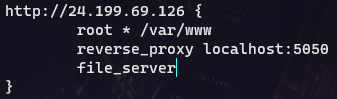
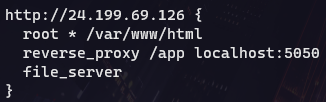
Submit

diff --git a/src/index.js b/src/index.js
@@ -1,19 +1,15 @@
 // Require the framework and instantiate it
 const fastify = require('fastify')({ logger: true })
-// Require fs for readStream
-const { createReadStream } = require('fs')
 
 // Declare a route
-fastify.get('/', async (request, reply) => {
-  // return reply of stream of index.html
-  return reply.type("text/html")
-    .send(createReadStream("./html/index.html"))
+fastify.get('/app', async (request, reply) => {
+  return { hello: "hello world" }
 })
 
 // Run the server!
 const start = async () => {
   try {
-    await fastify.listen({ port: 3000 })
+    await fastify.listen({ host: "127.0.0.1", port: 5050 })
   } catch (err) {
     fastify.log.error(err)
     process.exit(1)

diff --git a/html/index.html b/html/index.html
@@ -8,6 +8,6 @@
 </head>
 <body>
   <h1>HTML Document</h1>
-  <h2>Served by Caddy</h2>
+  <h2>From host ubuntu-01</h2>
 </body>
 </html>

diff --git a/README.md b/README.md
@@ -18,14 +18,21 @@
   2. Choose SFO3 as the datacenter region
   3. Name the VPC **vpc-2420** and finish creating the VPC
 
+In the VPC tab, you should now be able to see the VPC you just created.
+
+![vpc](images/vpc.png)
+
 #### Load Balancer
 
   1. Under: Manage > Networking > Load Balancers, click **Create a Load Balancer**
   2. Choose San Francisco 3 as the datacenter region (you should see "2 Droplets in this region")
-  ![1-1](images/1-1.png)
   3. Select the VPC **vpc-2420** you created earlier
   4. Under Scaling configuration, set **Number of nodes** to **2**
   5. Under Connect Droplets, add the tag **Web** and create the load balancer
+
+If you click on your new load balancer, you should see the region, VPC, and the two droplets you just configured.
+
+![load_balancer](images/load_balancer.png)
 
 #### Firewall
 
@@ -34,11 +41,15 @@
   3. Under Inbound Rules, select **HTTP** as a new rule; replace existing sources with the name of the load balancer created earlier
   4. Under Apply to Droplets, enter the **Web** tag to link your droplets
 
+If you click on your new firewall, you should see the inbound rule you just created which sources your load balancer.
+
+![fw](images/fw.png)
+
 ## Step 2
 
 Do the following procedure for both droplets:
 
-### Add User to Droplets
+### Add User
 
   1. ssh into droplet as root
   2. Create a new user `useradd -ms /bin/bash <username>`
@@ -48,7 +59,7 @@ Do the following procedure for both droplets:
 
 ## Step 3
 
-On both droplets:
+Do the following procedure for both droplets:
 
 ### Install Caddy Web Server on Droplets
 
@@ -74,22 +85,24 @@ On both droplets:
   3. Create file **index.js** in **src/** and add the following code:
   ![index_js](images/index_js.png)
   4. Test web app locally and ensure that **index.html** is served successfully
-  5. Move **html/** and **src/** to both droplets (use rsync or sftp)
-  6. `sudo mkdir /var/www` then `sudo mv html/index.html /var/www/`
+
+Do the following procedure for both droplets:
+
+### Move Files to Droplets
+  1. Move **html/** and **src/** to both droplets (use rsync or sftp)
+  2. `sudo mv html /var/www` and `sudo mv src /var/www/`
 
 ## Step 5
 
 ### Create Caddyfile
 
-On local machine:
-
-  1. Create a file named **Caddyfile**
+  1. On local machine, create a file named **Caddyfile**
   3. Add the following to the **Caddyfile** (use the IP of the load balancer created earlier):
   ![caddyfile](images/caddyfile.png)
 
 ## Step 6
 
-On both droplets:
+Do the following procedure for both droplets:
 
 ### Install Node with Volta
 
@@ -99,28 +112,35 @@ On both droplets:
 
 ## Step 7
 
-On local machine:
-
 ### Create Service File
-  1. Create a file named **caddyapp.service** and write:
-  ![caddyapp_service](images/caddyapp_service.png)
+  1. On local machine, create a file named **hello_web.service** and write:
+  ![hello_web](images/hello_web.png)
+  2. Ensure that User, Group, and ExecStart use the username you configured earlier.
 
 ## Step 8
 
-For both droplets:
+Do the following procedures for both droplets:
 
 ### Upload and Move Files
 
-  1. Upload **Caddyfile** and **caddyapp.service**
-  2. `sudo mkdir /etc/caddy`
-  3. `sudo mv Caddyfile /etc/caddy/Caddyfile`
-  4. `sudo mv caddyapp.service /etc/systemd/system`
+  1. Upload **Caddyfile** and **hello_web.service**
+  2. `sudo mkdir /etc/caddy` then `sudo mv Caddyfile /etc/caddy/Caddyfile`
+  4. `sudo mv hello_world.service /etc/systemd/system`
 
-### Start and Test caddyapp.service
+### Start and Test hello_web.service
 
   1. `sudo systemctl daemon-reload`
-  2. `sudo systemctl enable caddyapp.service`
-  3. `sudo systemctl start caddyapp.service`
-  4. `systemctl status caddyapp.service`
+  2. `sudo systemctl enable hello_web.service`
+  3. `sudo systemctl start hello_web.service`
+  4. `systemctl status hello_web.service`
+  5. Ensure service is active and running successfully
+  ![service_status](images/service_status.png)
+  6. Slightly change **index.html** on one of the droplets to test that the load balancer is working
 
+## Step 9
 
+  1. Visit the IP of the load balancer to see the web app in action
+
+![api](images/api.png)
+
+Visit my hello_web api here: `24.199.69.126`
